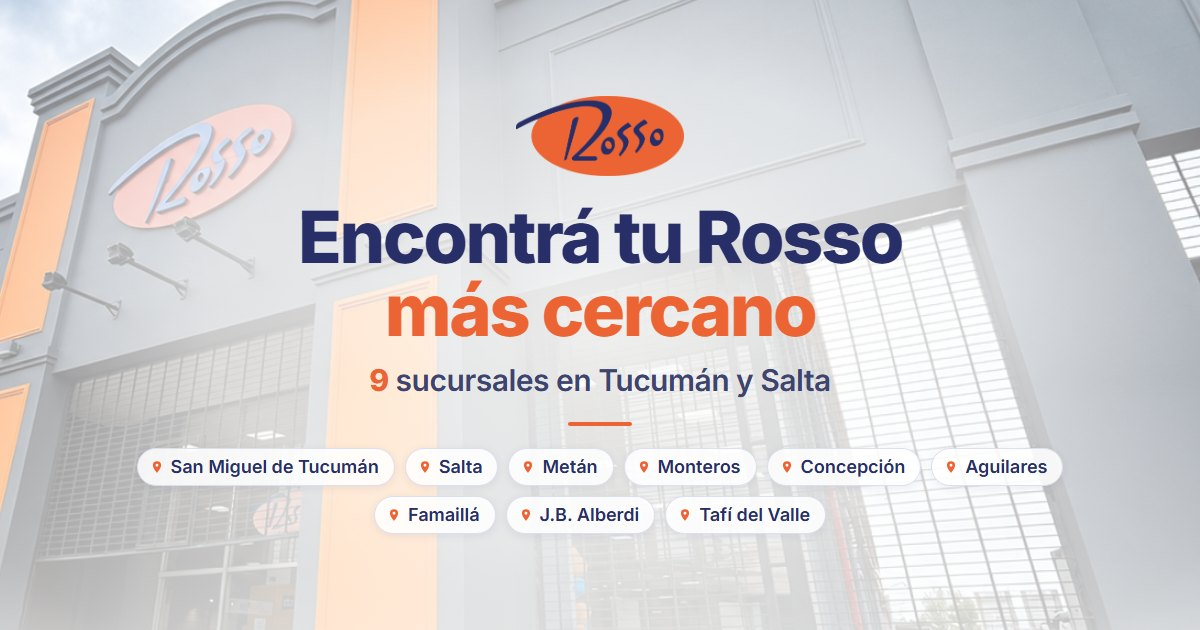
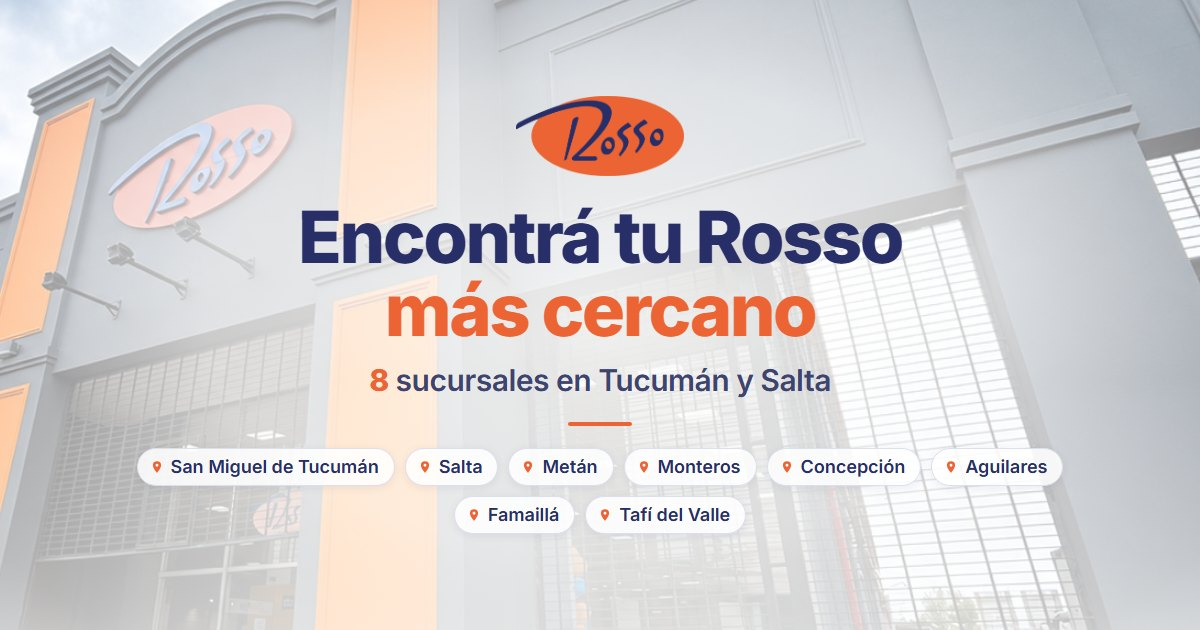
feat: add Open Graph images and metadata for site pages

Changed region(s): [[0.3083, 0.7841, 0.7092, 0.8444], [0.3083, 0.573, 0.3392, 0.6333]]

diff --git a/tools/og/og-trabaja.html b/tools/og/og-trabaja.html
@@ -1,0 +1,78 @@
+<!doctype html>
+<html lang="es">
+<head>
+<meta charset="utf-8">
+<link rel="preconnect" href="https://fonts.googleapis.com">
+<link rel="preconnect" href="https://fonts.gstatic.com" crossorigin>
+<link href="https://fonts.googleapis.com/css2?family=Inter:wght@500;600;700;800&display=block" rel="stylesheet">
+<style>
+  * { margin: 0; padding: 0; box-sizing: border-box; }
+  html, body { width: 1200px; height: 630px; overflow: hidden; background: #fff; }
+  .og {
+    position: relative; width: 1200px; height: 630px; font-family: "Inter", sans-serif; color: #272e68;
+    background: #fff url("fondo-trabaja.jpg") left -170px center / auto 630px no-repeat;
+    display: flex; flex-direction: column; align-items: center; justify-content: center; text-align: center;
+  }
+  .og::before { content: ""; position: absolute; inset: 0; }
+  .og > * { position: relative; }
+
+  /* Armado A: la persona a la izquierda casi sin velo, el velo se hace denso detrás del texto */
+  .og.a { align-items: flex-end; padding-right: 60px; }
+  .og.a .box { width: 640px; display: flex; flex-direction: column; align-items: center; }
+  .og.a::before {
+    background: linear-gradient(90deg, rgba(255,255,255,.08) 0%, rgba(255,255,255,.18) 28%,
+                rgba(255,255,255,.86) 46%, rgba(255,255,255,.93) 100%);
+  }
+  /* Armado B: todo centrado con velo radial, como sucursales */
+  .og.b .box { display: flex; flex-direction: column; align-items: center; }
+  .og.b::before {
+    background:
+      radial-gradient(ellipse 58% 68% at 50% 50%, rgba(255,255,255,.93) 0%, rgba(255,255,255,.78) 55%, rgba(255,255,255,.4) 100%),
+      linear-gradient(180deg, rgba(255,255,255,0) 60%, rgba(255,255,255,.6) 100%);
+  }
+
+  .logo { height: 76px; margin-bottom: 22px; }
+  .title { font-weight: 800; font-size: 66px; line-height: 1.02; letter-spacing: -2.2px; }
+  .title em { font-style: normal; color: #ec6434; }
+  .sub { margin-top: 16px; font-weight: 600; font-size: 27px; letter-spacing: -.4px; color: #3d4470; }
+  .rule { width: 64px; height: 4px; border-radius: 2px; background: #ec6434; margin: 22px auto 20px; }
+  .chips { display: flex; flex-wrap: wrap; justify-content: center; gap: 10px; max-width: 1000px; }
+  .og.a .chips { max-width: 600px; }
+  .chip {
+    display: inline-flex; align-items: center; gap: 8px; font-weight: 600; font-size: 18px; line-height: 1;
+    padding: 9px 15px 9px 13px; border-radius: 999px; color: #272e68;
+    background: rgba(255,255,255,.88); border: 1px solid #dcdfec;
+    box-shadow: 0 2px 8px rgba(39,46,104,.08);
+  }
+  .chip::before { content: ""; width: 7px; height: 7px; border-radius: 50%; background: #ec6434; flex: none; }
+</style>
+</head>
+<body>
+<div class="og a" id="og">
+  <div class="box">
+    <img class="logo" src="logo-trim.png" alt="Rosso">
+    <div class="title" id="title">Construí tu futuro<br><em>con Rosso</em></div>
+    <div class="sub" id="sub">Envianos tu CV y sumate al equipo</div>
+    <div class="rule"></div>
+    <!-- Beneficios tal cual figuran en trabaja-con-nosotros.html -->
+    <div class="chips">
+      <span class="chip">Estabilidad laboral</span>
+      <span class="chip">Crecimiento profesional</span>
+      <span class="chip">Buen ambiente de trabajo</span>
+      <span class="chip">Presencia regional</span>
+    </div>
+  </div>
+</div>
+<script>
+  // Comparar: #<mensaje>-<armado>, por ejemplo #2-b. Mensajes 1 a 3, armados a (persona a la izquierda) o b (centrado).
+  const variantes = {
+    "1": ['Construí tu futuro<br><em>con Rosso</em>', 'Envianos tu CV y sumate al equipo'],
+    "2": ['Sumate al<br><em>equipo Rosso</em>', 'Recibimos postulaciones todo el año'],
+    "3": ['¿Te sumás<br><em>al equipo?</em>', 'Envianos tu CV y construí tu futuro con Rosso']
+  };
+  const [msg, armado] = location.hash.slice(1).split('-');
+  if (variantes[msg]) { document.getElementById('title').innerHTML = variantes[msg][0]; document.getElementById('sub').innerHTML = variantes[msg][1]; }
+  if (armado === 'b') { const og = document.getElementById('og'); og.classList.remove('a'); og.classList.add('b'); }
+</script>
+</body>
+</html>

diff --git a/tools/og/og-inicio.html b/tools/og/og-inicio.html
@@ -1,0 +1,65 @@
+<!doctype html>
+<html lang="es">
+<head>
+<meta charset="utf-8">
+<link rel="preconnect" href="https://fonts.googleapis.com">
+<link rel="preconnect" href="https://fonts.gstatic.com" crossorigin>
+<link href="https://fonts.googleapis.com/css2?family=Inter:wght@500;600;700;800&display=block" rel="stylesheet">
+<style>
+  * { margin: 0; padding: 0; box-sizing: border-box; }
+  html, body { width: 1200px; height: 630px; overflow: hidden; background: #fff; }
+  .og {
+    position: relative; width: 1200px; height: 630px; font-family: "Inter", sans-serif; color: #272e68;
+    background: #fff url("fondo-inicio.jpg") center / cover no-repeat;
+    display: flex; flex-direction: column; align-items: center; justify-content: center; text-align: center;
+  }
+  /* Velo blanco completo, mismo estilo que sucursales y catálogo */
+  .og::before {
+    content: ""; position: absolute; inset: 0;
+    background:
+      radial-gradient(ellipse 56% 66% at 50% 50%, rgba(255,255,255,.9) 0%, rgba(255,255,255,.72) 55%, rgba(255,255,255,.3) 100%),
+      linear-gradient(180deg, rgba(255,255,255,0) 62%, rgba(255,255,255,.55) 100%);
+  }
+  .og > * { position: relative; }
+  .logo { height: 80px; margin-bottom: 24px; }
+  .title { font-weight: 800; font-size: 72px; line-height: 1.02; letter-spacing: -2.4px; }
+  .title em { font-style: normal; color: #ec6434; }
+  .sub { margin-top: 16px; font-weight: 600; font-size: 30px; letter-spacing: -.5px; color: #3d4470; }
+  .rule { width: 64px; height: 4px; border-radius: 2px; background: #ec6434; margin: 24px auto 22px; }
+  .chips { display: flex; flex-wrap: wrap; justify-content: center; gap: 10px; max-width: 1060px; }
+  .chip {
+    display: inline-flex; align-items: center; gap: 8px; font-weight: 600; font-size: 18px; line-height: 1;
+    padding: 9px 15px 9px 13px; border-radius: 999px; color: #272e68;
+    background: rgba(255,255,255,.88); border: 1px solid #dcdfec;
+    box-shadow: 0 2px 8px rgba(39,46,104,.08);
+  }
+  .chip::before { content: ""; width: 7px; height: 7px; border-radius: 50%; background: #ec6434; flex: none; }
+</style>
+</head>
+<body>
+<div class="og">
+  <img class="logo" src="logo-trim.png" alt="Rosso">
+  <div class="title" id="title">Todo para construir<br><em>tu espacio</em></div>
+  <div class="sub" id="sub">El corralón líder de Tucumán y Salta</div>
+  <div class="rule"></div>
+  <!-- Datos tomados del propio index.html (8 sucursales, stock, acopio, flota propia, catálogo) -->
+  <div class="chips">
+    <span class="chip">8 sucursales</span>
+    <span class="chip">Stock permanente</span>
+    <span class="chip">Acopio de materiales</span>
+    <span class="chip">Entrega a pie de obra</span>
+    <span class="chip">Catálogo online</span>
+  </div>
+</div>
+<script>
+  // Variantes de mensaje para comparar: abrir con #1, #2 o #3
+  const variantes = {
+    "1": ['Todo para construir<br><em>tu espacio</em>', 'El corralón líder de Tucumán y Salta'],
+    "2": ['De los cimientos<br><em>a las terminaciones</em>', 'El corralón líder de Tucumán y Salta'],
+    "3": ['Tu corralón en<br><em>Tucumán y Salta</em>', 'Obra gruesa, terminaciones y entrega a pie de obra']
+  };
+  const v = variantes[location.hash.slice(1)];
+  if (v) { document.getElementById('title').innerHTML = v[0]; document.getElementById('sub').innerHTML = v[1]; }
+</script>
+</body>
+</html>

diff --git a/sucursales.html b/sucursales.html
@@ -17,13 +17,13 @@
     <meta property="og:url" content="https://www.rossomateriales.site/sucursales.html" />
     <meta property="og:title" content="Sucursales de Rosso Materiales en Tucumán y Salta | Corralón Líder" />
     <meta property="og:description"
-        content="Encontrá tu sucursal más cercana en Tucumán (San Miguel de Tucumán, Monteros, Concepción, Aguilares, Famaillá, J.B. Alberdi, Tafí del Valle) y Salta (Capital y Metán)." />
+        content="Encontrá tu sucursal más cercana en Tucumán (San Miguel de Tucumán, Monteros, Concepción, Aguilares, Famaillá, Tafí del Valle) y Salta (Capital y Metán)." />
     <meta property="og:image" content="https://www.rossomateriales.site/assets/og/og-sucursales.jpg" />
     <meta property="og:image:secure_url" content="https://www.rossomateriales.site/assets/og/og-sucursales.jpg" />
     <meta property="og:image:type" content="image/jpeg" />
     <meta property="og:image:width" content="1200" />
     <meta property="og:image:height" content="630" />
-    <meta property="og:image:alt" content="Encontrá tu Rosso más cercano: 9 sucursales en Tucumán y Salta" />
+    <meta property="og:image:alt" content="Encontrá tu Rosso más cercano: 8 sucursales en Tucumán y Salta" />
     <meta property="og:site_name" content="Rosso Materiales" />
     <meta property="og:locale" content="es_AR" />
 
@@ -34,7 +34,7 @@
     <meta name="twitter:description"
         content="Ubicaciones, teléfonos y horarios de atención de nuestras sucursales en Tucumán y Salta." />
     <meta name="twitter:image" content="https://www.rossomateriales.site/assets/og/og-sucursales.jpg" />
-    <meta name="twitter:image:alt" content="Encontrá tu Rosso más cercano: 9 sucursales en Tucumán y Salta" />
+    <meta name="twitter:image:alt" content="Encontrá tu Rosso más cercano: 8 sucursales en Tucumán y Salta" />
 
     <!-- Datos Estructurados Schema.org LocalBusiness Multi-Sucursal (SEO Local) -->
     <script type="application/ld+json">

diff --git a/index.html b/index.html
@@ -19,7 +19,12 @@
   <meta property="og:title" content="Corralón de Materiales para la Construcción en Tucumán y Salta | Rosso" />
   <meta property="og:description"
     content="Corralón líder en Tucumán y Salta con 8 sucursales, stock permanente y los mejores precios en obra gruesa, porcelanatos, sanitarios, aberturas, viguetas Tensolite y construcción en seco. Envíos directos a pie de obra." />
-  <meta property="og:image" content="https://i.ibb.co/PzZscw0G/Logo-Rosso-Institucional-1.png" />
+  <meta property="og:image" content="https://www.rossomateriales.site/assets/og/og-inicio.jpg" />
+  <meta property="og:image:secure_url" content="https://www.rossomateriales.site/assets/og/og-inicio.jpg" />
+  <meta property="og:image:type" content="image/jpeg" />
+  <meta property="og:image:width" content="1200" />
+  <meta property="og:image:height" content="630" />
+  <meta property="og:image:alt" content="Rosso Materiales: todo para construir tu espacio. El corralón líder de Tucumán y Salta" />
   <meta property="og:site_name" content="Rosso Materiales" />
   <meta property="og:locale" content="es_AR" />
 
@@ -29,7 +34,8 @@
   <meta name="twitter:title" content="Corralón de Materiales para la Construcción en Tucumán y Salta | Rosso" />
   <meta name="twitter:description"
     content="Corralón líder en Tucumán y Salta: 8 sucursales con stock permanente, acopio de materiales contra inflación y cotizaciones online." />
-  <meta name="twitter:image" content="https://i.ibb.co/PzZscw0G/Logo-Rosso-Institucional-1.png" />
+  <meta name="twitter:image" content="https://www.rossomateriales.site/assets/og/og-inicio.jpg" />
+  <meta name="twitter:image:alt" content="Rosso Materiales: todo para construir tu espacio. El corralón líder de Tucumán y Salta" />
 
   <!-- Datos Estructurados Schema.org Multi-Sucursal (SEO & GEO Local Extremo) -->
   <script type="application/ld+json">

diff --git a/calculadora.html b/calculadora.html
@@ -808,7 +808,7 @@
                                     <span class="diagram-zoom-hint" onclick="openDiagramModal()"><i class="fa-solid fa-up-right-and-down-left-from-center"></i> Ampliar</span>
                                 </div>
                                 <div class="diagram-img-wrapper" onclick="openDiagramModal()" title="Clic para ampliar el esquema">
-<img src="assets/foto-pisos-instalacion.png" alt="Colocador instalando porcelanatos sobre adhesivo con sistema de nivelación" class="diagram-img" id="pisos-diagram-img" loading="lazy">
+<img src="assets/foto-pisos-instalacion.webp" width="1448" height="1086" alt="Colocador instalando porcelanatos sobre adhesivo con sistema de nivelación" class="diagram-img" id="pisos-diagram-img" loading="lazy">
                                     <div class="diagram-overlay-badge">
                                         <i class="fa-solid fa-magnifying-glass-plus"></i> Clic para ver en detalle
                                     </div>
@@ -1127,7 +1127,7 @@
         <div class="diagram-modal-dialog">
             <button class="diagram-modal-close" onclick="closeDiagramModal()" aria-label="Cerrar vista previa">&times;</button>
             <div class="diagram-modal-body">
-<img src="assets/foto-pisos-instalacion.png" alt="Colocación de pisos y porcelanatos en obra" class="diagram-modal-img">
+<img src="assets/foto-pisos-instalacion.webp" width="1448" height="1086" alt="Colocación de pisos y porcelanatos en obra" class="diagram-modal-img">
                 <div class="diagram-modal-caption">
                     <h3><i class="fa-solid fa-circle-info"></i> Componentes para Colocación de Pisos y Porcelanatos</h3>
                     <p>• <strong>Superficie (Largo x Ancho):</strong> Metros cuadrados reales del ambiente más un 10% de desperdicio por recortes y zócalos.</p>

diff --git a/calculadora-cielorraso-pvc.html b/calculadora-cielorraso-pvc.html
@@ -939,7 +939,7 @@
                                 <span class="diagram-zoom-hint" onclick="openDiagramModal()"><i class="fa-solid fa-up-right-and-down-left-from-center"></i> Ampliar</span>
                             </div>
                             <div class="diagram-img-wrapper" onclick="openDiagramModal()" title="Clic para ampliar el esquema">
-<img src="assets/foto-cielorraso-pvc.png" alt="Instalador colocando un cielorraso de PVC sobre estructura galvanizada" class="diagram-img" id="pvc-diagram-img" loading="lazy">
+<img src="assets/foto-cielorraso-pvc.webp" width="1448" height="1086" alt="Instalador colocando un cielorraso de PVC sobre estructura galvanizada" class="diagram-img" id="pvc-diagram-img" loading="lazy">
                                 <div class="diagram-overlay-badge">
                                     <i class="fa-solid fa-magnifying-glass-plus"></i> Clic para ver en detalle
                                 </div>
@@ -1588,7 +1588,7 @@
         <div class="diagram-modal-dialog">
             <button class="diagram-modal-close" onclick="closeDiagramModal()" aria-label="Cerrar vista previa">&times;</button>
             <div class="diagram-modal-body">
-<img src="assets/foto-cielorraso-pvc.png" alt="Instalación de un cielorraso de PVC en obra" class="diagram-modal-img">
+<img src="assets/foto-cielorraso-pvc.webp" width="1448" height="1086" alt="Instalación de un cielorraso de PVC en obra" class="diagram-modal-img">
                 <div class="diagram-modal-caption">
                     <h3><i class="fa-solid fa-circle-info"></i> Componentes del Sistema de Cielorraso PVC</h3>
                     <p>• <strong>Estructura Portante:</strong> Perfiles montantes de 35 mm colocados a una modulación de 50 cm fijados a soleras perimetrales y suspendidos con velas rígidas.</p>

diff --git a/calculadora-viguetas.html b/calculadora-viguetas.html
@@ -1143,7 +1143,7 @@
                                 <span class="diagram-zoom-hint" onclick="openDiagramModal()"><i class="fa-solid fa-up-right-and-down-left-from-center"></i> Ampliar</span>
                             </div>
                             <div class="diagram-img-wrapper" onclick="openDiagramModal()" title="Clic para ampliar el esquema">
-<img src="assets/foto-losa-viguetas.png" alt="Operario armando una losa con viguetas pretensadas y bovedillas cerámicas" class="diagram-img" id="losa-diagram-img" loading="lazy">
+<img src="assets/foto-losa-viguetas.webp" width="1448" height="1086" alt="Operario armando una losa con viguetas pretensadas y bovedillas cerámicas" class="diagram-img" id="losa-diagram-img" loading="lazy">
                                 <div class="diagram-overlay-badge">
                                     <i class="fa-solid fa-magnifying-glass-plus"></i> Clic para ver en detalle
                                 </div>
@@ -1610,7 +1610,7 @@
         <div class="diagram-modal-dialog">
             <button class="diagram-modal-close" onclick="closeDiagramModal()" aria-label="Cerrar vista previa">&times;</button>
             <div class="diagram-modal-body">
-<img src="assets/foto-losa-viguetas.png" alt="Armado de una losa con viguetas pretensadas en obra" class="diagram-modal-img">
+<img src="assets/foto-losa-viguetas.webp" width="1448" height="1086" alt="Armado de una losa con viguetas pretensadas en obra" class="diagram-modal-img">
                 <div class="diagram-modal-caption">
                     <h3><i class="fa-solid fa-circle-info"></i> Componentes del Sistema de Losa con Viguetas Pretensadas</h3>
                     <p>• <strong>Luz de cálculo:</strong> Distancia entre apoyos (muros o vigas) en el sentido longitudinal de las viguetas.</p>

diff --git a/trabaja-con-nosotros.html b/trabaja-con-nosotros.html
@@ -18,7 +18,12 @@
   <meta property="og:title" content="Trabajá con Nosotros | Rosso Materiales" />
   <meta property="og:description"
     content="Sumate al equipo de Rosso Materiales en Tucumán y Salta. Conocé nuestras oportunidades de empleo." />
-  <meta property="og:image" content="https://i.ibb.co/PzZscw0G/Logo-Rosso-Institucional-1.png" />
+  <meta property="og:image" content="https://www.rossomateriales.site/assets/og/og-trabaja.jpg" />
+  <meta property="og:image:secure_url" content="https://www.rossomateriales.site/assets/og/og-trabaja.jpg" />
+  <meta property="og:image:type" content="image/jpeg" />
+  <meta property="og:image:width" content="1200" />
+  <meta property="og:image:height" content="630" />
+  <meta property="og:image:alt" content="Construí tu futuro con Rosso: envianos tu CV y sumate al equipo" />
   <meta property="og:site_name" content="Rosso Materiales" />
   <meta property="og:locale" content="es_AR" />
 
@@ -28,7 +33,8 @@
   <meta name="twitter:title" content="Trabajá con Nosotros | Rosso Materiales" />
   <meta name="twitter:description"
     content="Sumate a nuestro equipo en Tucumán y Salta." />
-  <meta name="twitter:image" content="https://i.ibb.co/PzZscw0G/Logo-Rosso-Institucional-1.png" />
+  <meta name="twitter:image" content="https://www.rossomateriales.site/assets/og/og-trabaja.jpg" />
+  <meta name="twitter:image:alt" content="Construí tu futuro con Rosso: envianos tu CV y sumate al equipo" />
 
   <script async src="https://www.googletagmanager.com/gtag/js?id=G-QBM51JZ19R"></script>
   <script>

diff --git a/catalogo.html b/catalogo.html
@@ -3580,12 +3580,6 @@
       const dotsEl = document.getElementById('hero-dots');
       if (!track || !dotsEl) return;
 
-      const FALLBACK = [
-        'assets/SLIDER/Slider-catalogo.jpg',
-        'assets/SLIDER/Slider-catalogo1.jpg',
-        'assets/SLIDER/Slider-catalogo2.jpg'
-      ];
-
       let urls = [];
       try {
         const doc = await db.collection('config').doc('catalogoSlider').get();
@@ -3602,7 +3596,13 @@
         }
       } catch (e) {}
 
-      if (urls.length === 0) urls = FALLBACK;
+      // Sin slides cargados en el panel (o si Firestore falla): se oculta el encabezado entero
+      // en vez de mostrar imágenes rotas. Los slides se administran en config/catalogoSlider.
+      if (urls.length === 0) {
+        const hero = track.closest('.catalog-hero');
+        if (hero) hero.style.display = 'none';
+        return;
+      }
 
       track.innerHTML = urls.map((url, i) => `
         <div class="hero-slide${i === 0 ? ' active' : ''}">

diff --git a/calculadora-niveladores.html b/calculadora-niveladores.html
@@ -764,7 +764,7 @@
                     style="background: linear-gradient(135deg, #ffffff 0%, #f8f9fa 100%); display: flex; flex-direction: column; justify-content: center; align-items: center; padding: 30px;">
                     <div class="visual-img-container"
                         style="width: 100%; max-width: 420px; border-radius: 12px; overflow: hidden; margin-bottom: 25px; box-shadow: 0 8px 24px rgba(39, 46, 104, 0.12); border: 1px solid rgba(0,0,0,0.06);">
-                        <img src="assets/sistema-nivelacion-obra.png"
+                        <img src="assets/sistema-nivelacion-obra.webp" width="960" height="720"
                             alt="Colocador ajustando porcelanatos con clips, cuñas y pinza de nivelación"
                             style="width: 100%; height: auto; display: block; object-fit: cover;" />
                     </div>

diff --git a/tools/og/og-sucursales.html b/tools/og/og-sucursales.html
@@ -44,7 +44,7 @@
 <div class="og">
   <img class="logo" src="logo-trim.png" alt="Rosso">
   <div class="title" id="title">Encontrá tu Rosso<br><em>más cercano</em></div>
-  <div class="sub"><b>9</b> sucursales en Tucumán y Salta</div>
+  <div class="sub"><b>8</b> sucursales en Tucumán y Salta</div>
   <div class="rule"></div>
   <div class="chips">
     <span class="chip"><svg><use href="#pin"/></svg>San Miguel de Tucumán</span>
@@ -54,7 +54,6 @@
     <span class="chip"><svg><use href="#pin"/></svg>Concepción</span>
     <span class="chip"><svg><use href="#pin"/></svg>Aguilares</span>
     <span class="chip"><svg><use href="#pin"/></svg>Famaillá</span>
-    <span class="chip"><svg><use href="#pin"/></svg>J.B. Alberdi</span>
     <span class="chip"><svg><use href="#pin"/></svg>Tafí del Valle</span>
   </div>
 </div>

diff --git a/tools/og/README.md b/tools/og/README.md
@@ -14,7 +14,7 @@ Para volver a generar una imagen (1200×630) con Edge en modo headless:
 ```
 
 Después hay que pasarla a JPG (calidad ~86, menos de 300 KB) y guardarla en `assets/og/`.
-Si se abre o se cierra una sucursal, hay que actualizar el "9" y los nombres en `og-sucursales.html`.
+Si se abre o se cierra una sucursal, hay que actualizar el número y los nombres en `og-sucursales.html`.
 
 ## Catálogo
 
@@ -22,3 +22,18 @@ Si se abre o se cierra una sucursal, hay que actualizar el "9" y los nombres en 
 más liviano que sucursales, porque el fondo ya es muy claro. Las píldoras son las categorías reales del
 catálogo (colección `categorias` de Firestore): si se agrega o se renombra una categoría, actualizarlas acá.
 Mensajes alternativos con #1, #2 o #3. Salida: `assets/og/og-catalogo.jpg`.
+
+## Inicio
+
+`og-inicio.html` usa `fondo-inicio.jpg` (casa de ladrillo en obra con los cerros de fondo, generado con Magnific).
+Las píldoras salen del propio index.html: 8 sucursales, stock permanente, acopio, entrega a pie de obra, catálogo online.
+Mensajes alternativos con #1, #2 o #3. Salida: `assets/og/og-inicio.jpg`.
+
+## Trabajá con nosotros
+
+`og-trabaja.html` usa `fondo-trabaja.jpg` (la foto real de `assets/SLIDER/banner-trabaja.webp`).
+Como hay una persona, el armado principal (A) la deja a la izquierda casi sin velo y pone el texto a la derecha;
+el armado B (todo centrado) le tapa la cara. Se compara con #<mensaje>-<armado>, por ejemplo #2-b.
+Salida: `assets/og/og-trabaja.jpg`.
+
+Ojo con la cantidad de sucursales: J.B. Alberdi está comentada en sucursales.html, así que son 8.
